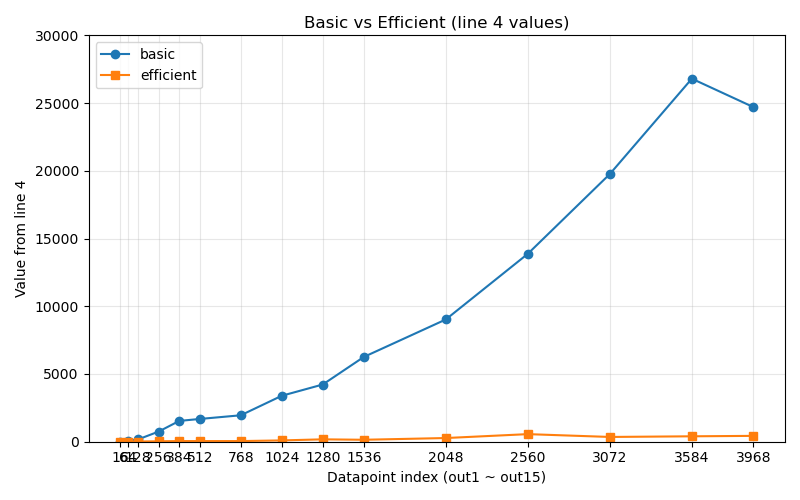
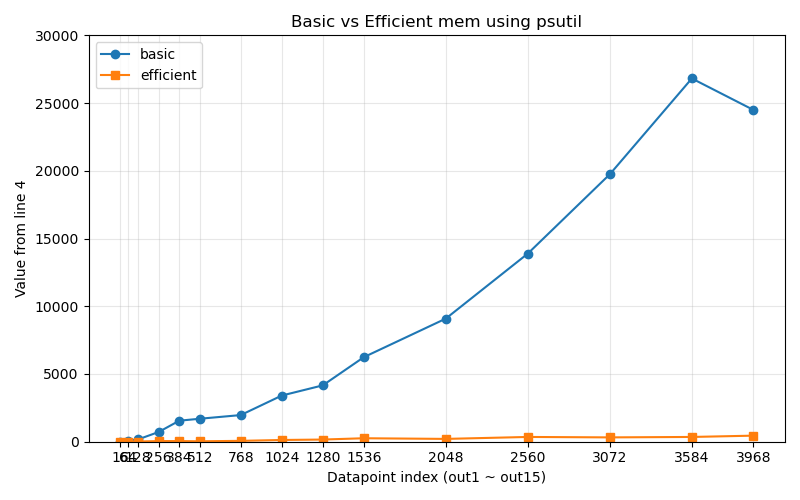
fixed some bugs and re-plot the graphs

diff --git a/plot.py b/plot.py
@@ -35,7 +35,7 @@ def plot_time_p():
 
     plt.xlabel("Datapoint index (out1 ~ out15)")
     plt.ylabel("Value from line 4")
-    plt.title("Basic vs Efficient (line 4 values)")
+    plt.title("Basic vs Efficient time")
     plt.xticks(x)             
     plt.ylim(0, 1400)          
     plt.grid(True, alpha=0.3)
@@ -78,7 +78,7 @@ def plot_time_t():
 
     plt.xlabel("Datapoint index (out1 ~ out15)")
     plt.ylabel("Value from line 4")
-    plt.title("Basic vs Efficient (line 4 values)")
+    plt.title("Basic vs Efficient time")
     plt.xticks(x)             
     plt.ylim(0, 22000)          
     plt.grid(True, alpha=0.3)
@@ -122,7 +122,7 @@ def plot_mem_p():
 
     plt.xlabel("Datapoint index (out1 ~ out15)")
     plt.ylabel("Value from line 4")
-    plt.title("Basic vs Efficient (line 4 values)")
+    plt.title("Basic vs Efficient mem using psutil")
     plt.xticks(x)             
     plt.ylim(0, 30000)          
     plt.grid(True, alpha=0.3)
@@ -166,7 +166,7 @@ def plot_mem_t():
 
     plt.xlabel("Datapoint index (out1 ~ out15)")
     plt.ylabel("Value from line 4")
-    plt.title("Basic vs Efficient (line 4 values)")
+    plt.title("Basic vs Efficient mem using tracemalloc")
     plt.xticks(x)             
     plt.ylim(0, 160000)          
     plt.grid(True, alpha=0.3)

diff --git a/efficient.py b/efficient.py
@@ -148,7 +148,7 @@ def main():
             print('Reading ',args.input)
             s1, s2 = generate(args.input)
             start_time = time.time()
-            align_cost, matching_1, matching_2,mem = efficient_p(s1,s2,args.base_length)  # alter this last arg for performance testing
+            align_cost, matching_1, matching_2,mem = efficient_p(s1,s2,args.baselength)  # alter this last arg for performance testing
             end_time = time.time()
             time_taken_ms = (end_time - start_time) * 1000
             print('Reading complete!')
@@ -170,7 +170,7 @@ def main():
             s1, s2 = generate(args.input)
             start_time = time.time()
             tracemalloc.start()
-            align_cost, matching_1, matching_2 = efficient_t(s1,s2,args.base_length)  # alter this last arg for performance testing
+            align_cost, matching_1, matching_2 = efficient_t(s1,s2,args.baselength)  # alter this last arg for performance testing
             _, mem = tracemalloc.get_traced_memory()
             tracemalloc.stop()
             mem = mem / 1024
